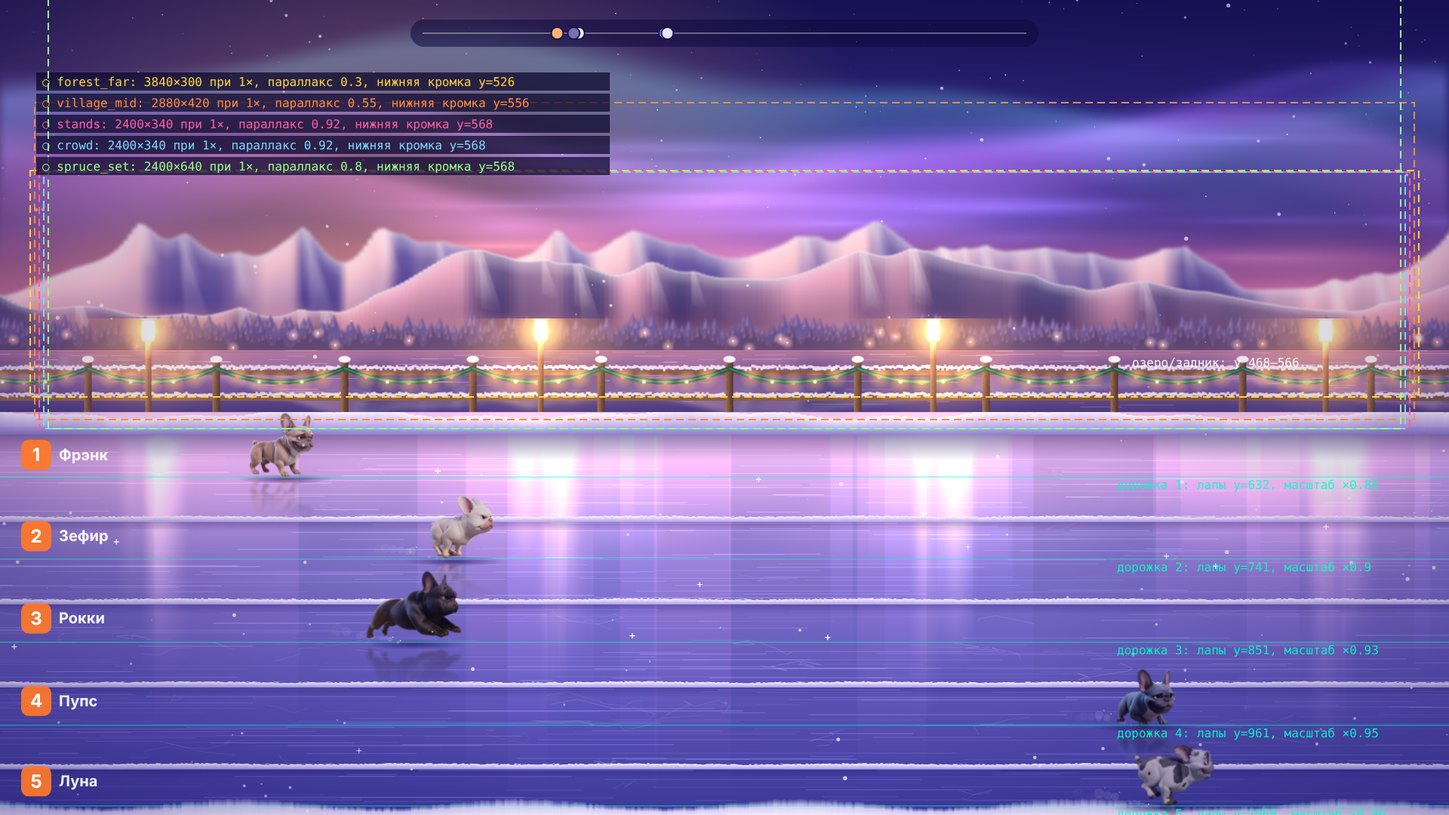
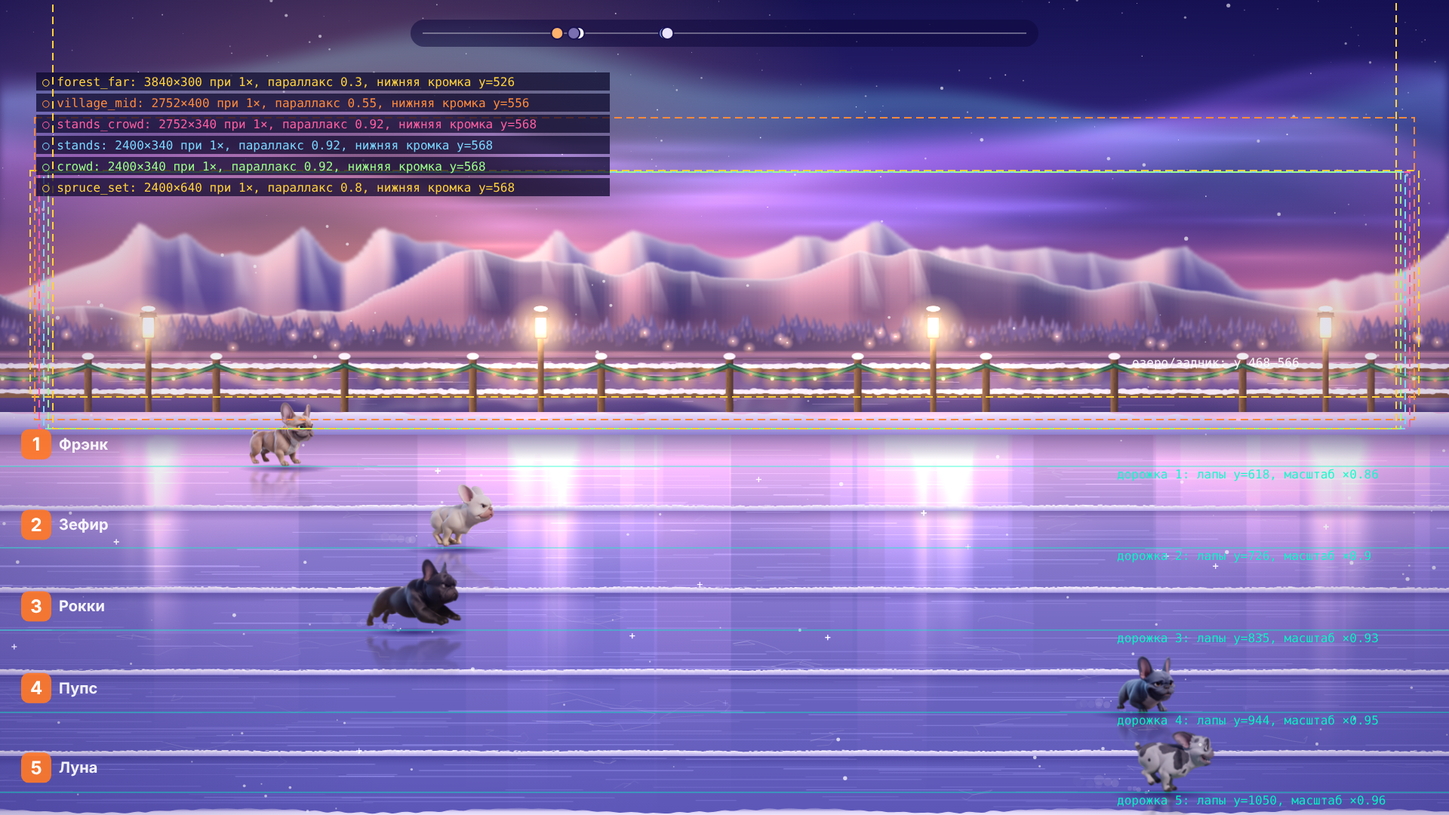
Арена (10.47): исправлены обрезанные фонари, швы фона и положение нижней собаки; слоты под P1 (модули, stands_crowd), проверка слоёв, план генераций и опорные кадры
Claude-Session: https://claude.ai/code/session_015A8DNsb5mr5DpbtnE63fGS

Changed region(s): [[0.0, 0.3667, 1.0, 1.0], [0.0, 0.1222, 0.4375, 0.2444], [0.9375, 0.1222, 0.9688, 0.1528]]

diff --git a/src/lib/bulldog/arena/art.ts b/src/lib/bulldog/arena/art.ts
@@ -8,6 +8,7 @@ export const PAL = {                         // «B+C»: спортивная я
   iceFar: '#b9a6e6', iceNear: '#4c4aa6', snowLit: '#f7ecff', snowShade: '#8d86cf', warm: '#ffc27a', warmDeep: '#ff8f4a',
 }
 export const HZ = 468                        // линия горизонта (низ гор, начало озера)
+export const FENCE_H = 340                  // высота холста ограждения: фонарь с колпаком и свечением целиком внутри (раньше 150 px резало колпак и свечение по прямой линии)
 export const BERM_Y = 566                    // дальний снежный борт: верхняя кромка трассы
 export const rng = (seed: number) => { let a = seed >>> 0; return () => { a = (a + 0x6d2b79f5) | 0; let t = Math.imul(a ^ (a >>> 15), 1 | a); t = (t + Math.imul(t ^ (t >>> 7), 61 | t)) ^ t; return ((t ^ (t >>> 14)) >>> 0) / 4294967296 } }
 export const cv = (w: number, h: number) => { const c = document.createElement('canvas'); c.width = Math.ceil(w); c.height = Math.ceil(h); return c }
@@ -82,7 +83,7 @@ export function buildLake(sky: HTMLCanvasElement, mtnFar: HTMLCanvasElement, mtn
   x.globalAlpha = 0.55; x.drawImage(t, 0, 0); x.globalAlpha = 1
   x.fillStyle = lin(x, 0, 0, 0, H, [[0, 'rgba(255,190,150,.0)'], [0.4, 'rgba(60,40,120,.0)'], [1, 'rgba(25,22,80,.55)']]); x.fillRect(0, 0, W, H)
   x.globalCompositeOperation = 'lighter'; for (let i = 0; i < W / 14; i++) { const py = r() * H * r(), px = r() * W, w = 20 + r() * 90 * (0.3 + py / H); x.fillStyle = `rgba(255,${200 + r() * 40 | 0},${200 + r() * 40 | 0},${0.05 + r() * 0.14})`; x.fillRect(px, py, w, 1) }
-  x.globalCompositeOperation = 'source-over'; return c
+  x.globalCompositeOperation = 'destination-in'; x.fillStyle = lin(x, 0, 0, 0, H, [[0, 'rgba(0,0,0,0)'], [0.16, 'rgba(0,0,0,1)'], [1, 'rgba(0,0,0,1)']]); x.fillRect(0, 0, W, H); x.globalCompositeOperation = 'source-over'; return c
 }
 
 // ── ледяная трасса (мировые координаты, параллакс 1): отражение огней, царапины, трещины, снежные гребни между дорожками, дальний и ближний борт
@@ -90,7 +91,7 @@ export interface TrackArt { canvas: HTMLCanvasElement; lanternsX: number[]; y0: 
 export function buildTrack(): TrackArt {
   const WW = ARENA.START_X + ARENA.TRACK_LEN + 1700, y0 = BERM_Y - 20, H = ARENA.H - y0, c = cv(WW, H), x = c.getContext('2d')!, r = rng(77), Y = (y: number) => y - y0
   // базовый лёд: ближе к горизонту отражает закат, ближе к камере — глубокий индиго
-  x.fillStyle = lin(x, 0, Y(BERM_Y), 0, H, [[0, '#cfa9dd'], [0.08, '#a98ad6'], [0.3, '#7f74c7'], [0.7, '#5a56b3'], [1, '#413f95']]); x.fillRect(0, 0, WW, H)
+  x.fillStyle = lin(x, 0, Y(BERM_Y), 0, H, [[0, '#cfa9dd'], [0.08, '#a98ad6'], [0.3, '#8478cb'], [0.7, '#6862bd'], [1, '#5d58b6']]); x.fillRect(0, 0, WW, H)
   // фонари (мировые X) — теплый свет ложится на лёд длинными вертикальными бликами
   const lanternsX: number[] = []; for (let wx = 260; wx < WW; wx += 520) lanternsX.push(wx)
   x.globalCompositeOperation = 'lighter'
@@ -113,19 +114,26 @@ export function buildTrack(): TrackArt {
     x.fillStyle = 'rgba(255,255,255,.55)'; for (let i = 0; i < WW / 9; i++) x.fillRect(r() * WW, Y(by) - 3.5 - r() * 1.5, 2 + r() * 3, 1)
   }
   // дальний борт (снежный вал) с мягкой верхней кромкой и тенью на льду; ближний край — низкий вал без громоздкости
-  const berm = (yy: number, hh: number, top: boolean) => { for (let px = 0; px < WW; px += 4) { const h = hh + Math.sin(px * 0.013) * hh * 0.25 + Math.sin(px * 0.047 + 2) * hh * 0.12 + r() * 2; const a = x.createLinearGradient(0, Y(yy) - h, 0, Y(yy) + 6); a.addColorStop(0, '#fdf4ff'); a.addColorStop(0.45, '#cdbcf0'); a.addColorStop(1, '#8a7fd0'); x.fillStyle = a; x.fillRect(px, Y(yy) - h, 4.2, h + 6) } x.fillStyle = lin(x, 0, Y(yy) + 6, 0, Y(yy) + 40, [[0, top ? 'rgba(30,24,100,.5)' : 'rgba(30,24,100,.0)'], [1, 'rgba(30,24,100,0)']]); x.fillRect(0, Y(yy) + 6, WW, 34) }
+  const berm = (yy: number, hh: number, top: boolean) => {
+    const pts: number[] = []; for (let px = 0; px <= WW; px += 8) pts.push(Y(yy) - (hh + Math.sin(px * 0.013) * hh * 0.25 + Math.sin(px * 0.047 + 2) * hh * 0.12 + Math.sin(px * 0.19) * 1.2 + r() * 1.6))
+    x.beginPath(); x.moveTo(0, Y(yy) + 6); x.lineTo(0, pts[0]); for (let i = 1; i < pts.length; i++) { const mx = (i * 8 - 4), my = (pts[i - 1] + pts[i]) / 2; x.quadraticCurveTo((i - 1) * 8, pts[i - 1], mx, my) } x.lineTo(WW, pts[pts.length - 1]); x.lineTo(WW, Y(yy) + 6); x.closePath()
+    const a = x.createLinearGradient(0, Y(yy) - hh - 8, 0, Y(yy) + 6); a.addColorStop(0, '#fdf4ff'); a.addColorStop(0.45, '#cdbcf0'); a.addColorStop(1, '#8a7fd0'); x.fillStyle = a; x.fill()
+    x.fillStyle = lin(x, 0, Y(yy) + 6, 0, Y(yy) + 40, [[0, top ? 'rgba(30,24,100,.5)' : 'rgba(30,24,100,.0)'], [1, 'rgba(30,24,100,0)']]); x.fillRect(0, Y(yy) + 6, WW, 34)
+  }
   berm(BERM_Y + 4, 20, true)
-  const fy = ARENA.H + 6; for (let px = 0; px < WW; px += 4) { const h = 20 + Math.sin(px * 0.017) * 6 + r() * 3, a = x.createLinearGradient(0, Y(fy) - h, 0, Y(fy)); a.addColorStop(0, 'rgba(245,235,255,.0)'); a.addColorStop(0.35, 'rgba(235,225,255,.9)'); a.addColorStop(1, '#ffffff'); x.fillStyle = a; x.fillRect(px, Y(fy) - h, 4.2, h + 2) }
+  { const fy = ARENA.H + 6, pts: number[] = []; for (let px = 0; px <= WW; px += 8) pts.push(Y(fy) - (11 + Math.sin(px * 0.017) * 3 + Math.sin(px * 0.21) * 1 + r() * 1.5))
+    x.beginPath(); x.moveTo(0, Y(fy) + 2); x.lineTo(0, pts[0]); for (let i = 1; i < pts.length; i++) x.quadraticCurveTo((i - 1) * 8, pts[i - 1], i * 8 - 4, (pts[i - 1] + pts[i]) / 2); x.lineTo(WW, pts[pts.length - 1]); x.lineTo(WW, Y(fy) + 2); x.closePath()
+    const a = x.createLinearGradient(0, Y(fy) - 16, 0, Y(fy)); a.addColorStop(0, 'rgba(245,235,255,0)'); a.addColorStop(0.35, 'rgba(235,225,255,.9)'); a.addColorStop(1, '#ffffff'); x.fillStyle = a; x.fill() }
   return { canvas: c, lanternsX, y0 }
 }
 
 // ── ограждение дальнего борта: деревянные столбы, перила, гирлянда с лампочками, фонари (вторичный декор; без зрителей и построек)
 export function buildFence(lanternsX: number[]): HTMLCanvasElement {
-  const WW = ARENA.START_X + ARENA.TRACK_LEN + 1700, H = 150, c = cv(WW, H), x = c.getContext('2d')!, r = rng(91), base = H - 4
+  const WW = ARENA.START_X + ARENA.TRACK_LEN + 1700, H = FENCE_H, c = cv(WW, H), x = c.getContext('2d')!, r = rng(91), base = H - 4
   const wood = (px: number, py: number, w: number, h: number) => { const g = x.createLinearGradient(px, 0, px + w, 0); g.addColorStop(0, '#9a6a45'); g.addColorStop(0.5, '#6b4430'); g.addColorStop(1, '#3d2622'); x.fillStyle = g; x.fillRect(px, py, w, h); x.fillStyle = 'rgba(0,0,0,.18)'; for (let k = 0; k < h / 7; k++) x.fillRect(px + r() * w, py + k * 7, 1, 3 + r() * 5) }
   const posts: number[] = []; for (let px = 40; px < WW; px += 170) posts.push(px)
   x.fillStyle = 'rgba(30,20,90,.32)'; x.fillRect(0, base - 3, WW, 6)
-  for (const ry of [base - 44, base - 78]) { wood(0, ry, WW, 7); x.fillStyle = 'rgba(255,240,255,.85)'; for (let px = 0; px < WW; px += 3) x.fillRect(px, ry - 2 - r() * 3 - (ry === base - 78 ? 2 : 0), 3.2, 3 + r() * 3) }
+  for (const ry of [base - 44, base - 78]) { wood(0, ry, WW, 7); x.fillStyle = 'rgba(255,242,255,.92)'; for (let px = 0; px < WW; px += 5) { x.beginPath(); x.ellipse(px + r() * 3, ry - 0.5 - r() * 1.5, 4.5 + r() * 3, 2.2 + r() * 1.8, 0, 0, 7); x.fill() } }
   for (const px of posts) { wood(px - 5, base - 92, 10, 90); x.fillStyle = '#fff4ff'; x.beginPath(); x.ellipse(px, base - 92, 8, 4.5, 0, 0, 7); x.fill() }
   // гирлянда: хвойная лента с красной ягодой и тёплыми лампочками между столбами
   for (let i = 0; i < posts.length - 1; i++) { const a = posts[i], b = posts[i + 1], my = base - 74 + 16; x.strokeStyle = '#1d4a3d'; x.lineWidth = 6; x.lineCap = 'round'; x.beginPath(); x.moveTo(a, base - 80); x.quadraticCurveTo((a + b) / 2, my + 14, b, base - 80); x.stroke(); x.strokeStyle = '#2f7a56'; x.lineWidth = 2.4; x.stroke()
@@ -134,6 +142,7 @@ export function buildFence(lanternsX: number[]): HTMLCanvasElement {
   x.globalCompositeOperation = 'source-over'
   // фонари: высокий столб, рамка, тёплое стекло, свечение
   for (const lx of lanternsX) { const px = lx; wood(px - 4, base - 128, 8, 126); x.fillStyle = '#2a1e2e'; x.fillRect(px - 11, base - 150, 22, 6); const g = x.createLinearGradient(0, base - 144, 0, base - 116); g.addColorStop(0, '#fff0c0'); g.addColorStop(1, '#ff9a4a'); x.fillStyle = g; x.beginPath(); x.roundRect(px - 8, base - 144, 16, 28, 3); x.fill(); x.strokeStyle = '#2a1e2e'; x.lineWidth = 2; x.stroke(); x.fillStyle = '#2a1e2e'; x.beginPath(); x.moveTo(px - 12, base - 144); x.lineTo(px, base - 154); x.lineTo(px + 12, base - 144); x.closePath(); x.fill(); x.fillStyle = '#fff'; x.beginPath(); x.ellipse(px, base - 155, 9, 3.5, 0, 0, 7); x.fill() }
-  x.globalCompositeOperation = 'lighter'; for (const lx of lanternsX) { glow(x, lx, base - 130, 120, 'rgb(255,170,100)', 0.5); glow(x, lx, base - 130, 38, 'rgb(255,225,170)', 0.9) }
-  x.globalCompositeOperation = 'source-over'; return c
+  x.globalCompositeOperation = 'lighter'; for (const lx of lanternsX) { glow(x, lx, base - 130, 46, 'rgb(255,225,170)', 0.85) }                      // только тугое ядро; широкий ореол рисуется на лету (drawLanternBloom) без обрезки
+  x.globalCompositeOperation = 'source-over'
+  const o = cv(WW, H), ox = o.getContext('2d')!; ox.filter = 'blur(0.55px)'; ox.drawImage(c, 0, 0); return o
 }

diff --git a/src/lib/bulldog/arena/slots.ts b/src/lib/bulldog/arena/slots.ts
@@ -12,19 +12,23 @@ export interface SlotSpec {
   bottomY: number
   /** Размер тайла в пикселях КАДРА 1920×1080 (1:1) и способ укладки. */
   tileW: number; tileH: number; mode: 'tile' | 'sequence'
+  /** Сколько модулей лежит в файле по горизонтали (файл делится поровну). Для 'tile' — 1. */
+  modules: number
   /** Что внутри и условия съёмки/отрисовки — попадает в ASSET_BRIEF. */
   note: string
 }
 export const SLOTS: SlotSpec[] = [
-  { id: 'forest_far', file: 'forest_far.webp', title: 'Дальний хвойный склон с огоньками посёлка', parallax: 0.30, bottomY: BERM_Y - 40, tileW: 3840, tileH: 300, mode: 'tile',
+  { id: 'forest_far', file: 'forest_far.webp', title: 'Дальний хвойный склон с огоньками посёлка', parallax: 0.30, bottomY: BERM_Y - 40, tileW: 3840, tileH: 300, mode: 'tile', modules: 1,
     note: 'бесшовно по горизонтали; плотные заснеженные ели + крыши и тёплые окна далёких шале в просветах; воздушная дымка (мягче и светлее переднего плана); фон прозрачный сверху (небо и горы за ним)' },
-  { id: 'village_mid', file: 'village_mid.webp', title: 'Зимняя деревня: шале, колокольня, дым из труб', parallax: 0.55, bottomY: BERM_Y - 10, tileW: 2880, tileH: 420, mode: 'sequence',
-    note: '4 модуля, стыкуются в любом порядке (одинаковый профиль снега и фонарь на стыке); шале с тёплыми окнами, балконы, гирлянды, колокольня, ели между домами; без зрителей' },
-  { id: 'stands', file: 'stands.webp', title: 'Трибуны/навесы (без зрителей)', parallax: 0.92, bottomY: BERM_Y + 2, tileW: 2400, tileH: 340, mode: 'sequence',
+  { id: 'village_mid', file: 'village_mid.webp', title: 'Зимняя деревня: шале, колокольня, дым из труб', parallax: 0.55, bottomY: BERM_Y - 10, tileW: 2752, tileH: 400, mode: 'sequence', modules: 3,
+    note: '3 модуля (вариант A) или 4 (вариант B); края каждого модуля свободны (120 px) — стык закрывают ели/фонари спрайтами; шале с тёплыми окнами, балконы, гирлянды, колокольня, ели между домами; без зрителей' },
+  { id: 'stands_crowd', file: 'stands_crowd.webp', title: 'Трибуны вместе с публикой (вариант A)', parallax: 0.92, bottomY: BERM_Y + 2, tileW: 2752, tileH: 340, mode: 'sequence', modules: 3,
+    note: 'вариант A: многоярусные трибуны с готовой плотной публикой одним слоем, как в концептах B-3/C-3; код оживляет её срезами рядов (±2 px) и вспышками; края модулей свободны' },
+  { id: 'stands', file: 'stands.webp', title: 'Трибуны/навесы (без зрителей)', parallax: 0.92, bottomY: BERM_Y + 2, tileW: 2400, tileH: 340, mode: 'sequence', modules: 3,
     note: '3 модуля стыкуются в любом порядке; многоуровневые деревянные трибуны B (тёмно-синие металлические элементы, световые панели), навесы с гирляндами C; ярусы пустые — зрители отдельным слоем' },
-  { id: 'crowd', file: 'crowd.webp', title: 'Зрители: три ряда отдельными слоями', parallax: 0.92, bottomY: BERM_Y + 2, tileW: 2400, tileH: 340, mode: 'sequence',
+  { id: 'crowd', file: 'crowd.webp', title: 'Зрители: три ряда отдельными слоями', parallax: 0.92, bottomY: BERM_Y + 2, tileW: 2400, tileH: 340, mode: 'sequence', modules: 3,
     note: 'те же 3 модуля по ширине, что и трибуны; КАЖДЫЙ из 3 рядов — отдельный PNG (rows 1–3), чтобы код качал ряды независимо; 2 позы на ряд (руки вниз / руки вверх)' },
-  { id: 'spruce_set', file: 'spruce_set.webp', title: 'Крупные ели (спрайты)', parallax: 0.80, bottomY: BERM_Y + 2, tileW: 2400, tileH: 640, mode: 'sequence',
+  { id: 'spruce_set', file: 'spruce_set.webp', title: 'Крупные ели (спрайты)', parallax: 0.80, bottomY: BERM_Y + 2, tileW: 2400, tileH: 640, mode: 'sequence', modules: 6,
     note: '6–8 отдельных елей разной высоты на прозрачном фоне; ставятся кодом за ограждением; никогда не перед дорожками' },
 ]
 export interface LoadedSlot { spec: SlotSpec; img: HTMLImageElement }
@@ -34,10 +38,16 @@ export async function loadSlots(base: string): Promise<{ loaded: LoadedSlot[]; m
   await Promise.all(SLOTS.map(spec => new Promise<void>(res => { const img = new Image(); img.onload = () => { loaded.push({ spec, img }); res() }; img.onerror = () => { missing.push(spec); res() }; img.src = `${base}${spec.file}` })))
   loaded.sort((a, b) => a.spec.parallax - b.spec.parallax); return { loaded, missing }
 }
-/** Положение тайла/модуля i слоя при камере camX: слева направо, покрывая кадр. Чистая функция — тестируется без холста. */
-export function slotPlacements(spec: SlotSpec, camX: number, viewW = ARENA.W): { x: number; index: number }[] {
-  const off = camX * spec.parallax, first = Math.floor(off / spec.tileW), out: { x: number; index: number }[] = []
-  for (let i = first; i * spec.tileW - off < viewW; i++) out.push({ x: i * spec.tileW - off, index: ((i % 4) + 4) % 4 })
+/** Какой модуль файла стоит в плитке i: детерминированно, без одного и того же модуля подряд (при ≥ 2 модулях). */
+export function moduleOf(i: number, modules: number): number {
+  if (modules <= 1) return 0
+  const n = ((i % 1000003) + 1000003) % 1000003
+  return modules === 2 ? n % 2 : (n + Math.floor(n / modules)) % modules
+}
+/** Положение плиток слоя при камере camX: слева направо, покрывая кадр. Чистая функция — тестируется без холста. */
+export function slotPlacements(spec: SlotSpec, camX: number, viewW = ARENA.W): { x: number; i: number; module: number }[] {
+  const off = camX * spec.parallax, first = Math.floor(off / spec.tileW), out: { x: number; i: number; module: number }[] = []
+  for (let i = first; i * spec.tileW - off < viewW; i++) out.push({ x: i * spec.tileW - off, i, module: moduleOf(i, spec.modules) })
   return out
 }
 export const GUIDE = { HZ, BERM_Y }

diff --git a/src/lib/bulldog/arena/arena.ts b/src/lib/bulldog/arena/arena.ts
@@ -1,7 +1,7 @@
 // Рендер арены: бесшовная трасса в мировых координатах, сопровождающая камера, слои параллакса, настоящие собаки Race V3, свет и частицы.
 // Дорожки, скорость и тайминги — из Race V3 без изменений; здесь только «картинка» (прогресс → мировые пиксели, см. camera.ts).
 import { ARENA, buildCameraTrack, worldX } from './camera'
-import { HZ, BERM_Y, STARS, buildSky, buildMountains, buildFarShore, buildLake, buildTrack, buildFence, rng, cv, type TrackArt } from './art'
+import { HZ, BERM_Y, FENCE_H, STARS, buildSky, buildMountains, buildFarShore, buildLake, buildTrack, buildFence, rng, cv, type TrackArt } from './art'
 import { SLOTS, loadSlots, slotPlacements, type LoadedSlot, type SlotSpec } from './slots'
 import { LAYOUT as L, DOG_IDS } from '../config'
 import { raceFor, stateAt, loadDogData, raceSheetUrls, selectSheetUrl, BitmapPool, type DogData } from '../engine'
@@ -56,7 +56,7 @@ export class ArenaRenderer {
     this.drawLakeGlints(T, X)
     // авторские слои деревни/леса/трибун — только если файлы есть
     for (const s of this.slots) if (s.spec.parallax < 0.85) this.drawSlot(s, X, T)
-    c.drawImage(A.fence, -X, BERM_Y - 146 + 2 + sw(0.9))
+    c.drawImage(A.fence, -X, BERM_Y + 2 - FENCE_H + sw(0.9))
     for (const s of this.slots) if (s.spec.parallax >= 0.85) this.drawSlot(s, X, T)
     c.drawImage(A.track.canvas, -X, A.track.y0)
     this.drawIceSparkle(T, X)
@@ -81,7 +81,8 @@ export class ArenaRenderer {
   private drawLakeGlints(T: number, X: number) { const c = this.ctx, r = rng(3); c.save(); c.globalCompositeOperation = 'lighter'; for (let i = 0; i < 70; i++) { const wx = r() * 3600, y = HZ + 6 + r() * (BERM_Y - HZ - 40), a = 0.25 * Math.abs(Math.sin(T * (0.8 + r()) + r() * 6)), x = ((wx - X * 0.2) % (ARENA.W + 200) + ARENA.W + 200) % (ARENA.W + 200) - 100; c.fillStyle = `rgba(255,220,230,${a})`; c.fillRect(x, y, 10 + r() * 24, 1) } c.restore() }
   private drawIceSparkle(T: number, X: number) { const c = this.ctx, r = rng(8); c.save(); c.globalCompositeOperation = 'lighter'; for (let i = 0; i < 90; i++) { const wx = r() * 3000, y = BERM_Y + 30 + r() * (ARENA.H - BERM_Y - 60), ph = r() * 9, a = Math.pow(Math.max(0, Math.sin(T * (1.2 + r() * 2) + ph)), 12), x = ((wx - X) % 3000 + 3000) % 3000 - 500; if (x < -20 || x > ARENA.W + 20) continue; c.fillStyle = `rgba(255,255,255,${a * 0.9})`; c.fillRect(x - 3, y, 7, 1); c.fillRect(x, y - 3, 1, 7) } c.restore() }
   private drawSlot(s: LoadedSlot, X: number, T: number) {
-    const c = this.ctx, sp = s.spec, pl = slotPlacements(sp, X); for (const p of pl) { const idx = sp.mode === 'sequence' ? p.index % Math.max(1, Math.round(s.img.width / sp.tileW)) : 0; c.drawImage(s.img, idx * sp.tileW * (s.img.width / (sp.tileW * Math.max(1, Math.round(s.img.width / sp.tileW)))), 0, sp.tileW * (s.img.width / (sp.tileW * Math.max(1, Math.round(s.img.width / sp.tileW)))), s.img.height, p.x, sp.bottomY - sp.tileH, sp.tileW, sp.tileH) }
+    const c = this.ctx, sp = s.spec, mw = s.img.width / sp.modules
+    for (const p of slotPlacements(sp, X)) c.drawImage(s.img, p.module * mw, 0, mw, s.img.height, p.x, sp.bottomY - sp.tileH, sp.tileW, sp.tileH)
     void T
   }
   private noseOf(id: string, d: DogData, v: { sheet: string | null; index: number | null }, bm: ImageBitmap) {
@@ -152,7 +153,7 @@ export class ArenaRenderer {
   }
   private drawLanternBloom(T: number, X: number) {
     const c = this.ctx; c.save(); c.globalCompositeOperation = 'lighter'
-    for (const lx of this.art.track.lanternsX) { const x = lx - X; if (x < -200 || x > ARENA.W + 200) continue; const f = 0.88 + 0.12 * Math.sin(T * 7 + lx * 0.13); const g = c.createRadialGradient(x, BERM_Y - 144 + 14, 0, x, BERM_Y - 130, 170); g.addColorStop(0, `rgba(255,190,120,${0.16 * f})`); g.addColorStop(1, 'rgba(255,170,100,0)'); c.fillStyle = g; c.fillRect(x - 170, BERM_Y - 300, 340, 340) }
+    for (const lx of this.art.track.lanternsX) { const x = lx - X; if (x < -200 || x > ARENA.W + 200) continue; const f = 0.88 + 0.12 * Math.sin(T * 7 + lx * 0.13); const cy = BERM_Y - 130, g = c.createRadialGradient(x, cy, 0, x, cy, 190); g.addColorStop(0, `rgba(255,190,120,${0.30 * f})`); g.addColorStop(0.35, `rgba(255,170,100,${0.12 * f})`); g.addColorStop(1, 'rgba(255,170,100,0)'); c.fillStyle = g; c.fillRect(x - 190, cy - 190, 380, 380) }
     c.restore()
   }
   private drawSnow(T: number, X: number) {
@@ -166,8 +167,8 @@ export class ArenaRenderer {
   }
   private drawGrade() {
     const c = this.ctx; c.save()
-    const v = c.createRadialGradient(ARENA.W / 2, ARENA.H * 0.55, ARENA.H * 0.45, ARENA.W / 2, ARENA.H * 0.55, ARENA.W * 0.72); v.addColorStop(0, 'rgba(20,10,70,0)'); v.addColorStop(1, 'rgba(20,10,70,.42)'); c.fillStyle = v; c.fillRect(0, 0, ARENA.W, ARENA.H)
-    c.globalCompositeOperation = 'soft-light'; c.fillStyle = lin(c, 0, 0, 0, ARENA.H, [[0, 'rgba(120,90,255,.18)'], [0.5, 'rgba(255,160,160,.10)'], [1, 'rgba(60,50,170,.22)']]); c.fillRect(0, 0, ARENA.W, ARENA.H)
+    const v = c.createRadialGradient(ARENA.W / 2, ARENA.H * 0.68, ARENA.H * 0.5, ARENA.W / 2, ARENA.H * 0.68, ARENA.W * 0.74); v.addColorStop(0, 'rgba(20,10,70,0)'); v.addColorStop(1, 'rgba(20,10,70,.34)'); c.fillStyle = v; c.fillRect(0, 0, ARENA.W, ARENA.H)
+    c.globalCompositeOperation = 'soft-light'; c.fillStyle = lin(c, 0, 0, 0, ARENA.H, [[0, 'rgba(120,90,255,.18)'], [0.5, 'rgba(255,160,160,.10)'], [1, 'rgba(120,110,230,.06)']]); c.fillRect(0, 0, ARENA.W, ARENA.H)
     c.restore()
   }
   private drawHud(T: number) {

diff --git a/src/lib/bulldog/arena/__tests__/arena.test.ts b/src/lib/bulldog/arena/__tests__/arena.test.ts
@@ -1,7 +1,7 @@
 // Арена: камера, раскладка дорожек и слоты авторской графики — без холста (чистая математика). Гонка — Race V3 того же движка (seed 328, D=42).
 import { describe, expect, it } from 'vitest'
 import { ARENA, buildCameraTrack, worldX } from '../camera'
-import { SLOTS, slotPlacements } from '../slots'
+import { SLOTS, slotPlacements, moduleOf } from '../slots'
 import { BERM_Y } from '../art'
 import { raceFor, stateAt } from '../../engine'
 
@@ -47,10 +47,14 @@ describe('дорожки', () => {
 
 describe('слоты авторской графики', () => {
   it('раскладка по параллаксу: при камере 0 слой начинается с 0; сдвиг = камера × параллакс; кадр закрыт целиком', () => {
-    const s = SLOTS[1]
+    const s = SLOTS.find(x => x.id === 'village_mid')!
     expect(slotPlacements(s, 0)[0].x).toBe(0)
     expect(slotPlacements(s, 1000)[0].x).toBeCloseTo(-1000 * s.parallax + Math.floor(1000 * s.parallax / s.tileW) * s.tileW, 6)
     for (const cx of [0, 777, 3210]) { const p = slotPlacements(s, cx); expect(p[0].x).toBeLessThanOrEqual(0); expect(p[p.length - 1].x + s.tileW).toBeGreaterThanOrEqual(ARENA.W) }
+  })
+  it('модули идут без одинакового подряд и используют все варианты', () => {
+    for (const m of [2, 3, 4, 6]) { const seq = Array.from({ length: 200 }, (_, i) => moduleOf(i, m)); for (let i = 1; i < seq.length; i++) expect(seq[i]).not.toBe(seq[i - 1]); expect(new Set(seq).size).toBe(m) }
+    expect(moduleOf(5, 1)).toBe(0)
   })
   it('нижние кромки слоёв не заходят на трассу, у всех есть описание для художника', () => {
     for (const s of SLOTS) { expect(s.bottomY).toBeLessThanOrEqual(BERM_Y + 2); expect(s.note.length).toBeGreaterThan(20); expect(s.file).toMatch(/\.webp$/) }

diff --git a/src/lib/bulldog/arena/camera.ts b/src/lib/bulldog/arena/camera.ts
@@ -10,7 +10,7 @@ export const ARENA = {
   TRACK_LEN: 6400,
   START_X: 620,                     // мировая координата старта (прогресс 0)
   /** Линии лап пяти дорожек (низ спрайта) и масштаб спрайта по дорожке: дальше — меньше, ближе — крупнее (лёгкая перспектива). Масштаб подобран ЗАМЕРОМ: самый высокий силуэт (особые позы) ≈ 108 строк из 116, он обязан помещаться в шаг дорожки, иначе соседи касаются, когда бегут рядом. */
-  LANE_Y: [632, 741, 851, 961, 1068],
+  LANE_Y: [618, 726, 835, 944, 1050],
   LANE_K: [0.86, 0.90, 0.93, 0.95, 0.96],
 }
 export interface CamPose { x: number; sway: number }

diff --git a/public/sw.js b/public/sw.js
@@ -35,7 +35,7 @@
 // src/version.ts — синхронно бампай и константу ниже (см. CLAUDE.md,
 // раздел 4). Разъедутся — старый кеш не инвалидируется, и на проде долго
 // живёт версия, которую уже никто не собирал.
-const VERSION = '10.46'
+const VERSION = '10.47'
 const CACHE = 'qp-' + VERSION
 // ─── Библиотека собак «Скачек бульдогов» (public/bulldog, ~48 МБ) — СВОЙ кеш, со своей версией ───
 // BULLDOG_V = первые 12 знаков sha256 файла public/bulldog/MANIFEST.json (тест swBulldog.test.ts сверяет — забыл бампнуть, красный прогон).

diff --git a/src/version.ts b/src/version.ts
@@ -1,3 +1,3 @@
 // Версия сборки: видна в углу экранов. Если на проде номер старый —
 // деплой прошёл не из того дерева, и обсуждать правки рано.
-export const VERSION = '10.46'
+export const VERSION = '10.47'

diff --git a/scripts/arena/check_layer.py b/scripts/arena/check_layer.py
@@ -1,0 +1,30 @@
+#!/usr/bin/env python3
+"""Проверка присланного слоя арены перед подключением: python3 scripts/arena/check_layer.py <файл> <id слоя> (id — из src/lib/bulldog/arena/slots.ts).
+Что проверяет: размер и пропорции, альфа-канал есть и не пустой, нижняя кромка садится на ровную линию (нет «хвостов» и подложки),
+остатки хромакей-пурпура (#FF00FF) на краях, шов между модулями (левый и правый край модуля похожи по прозрачности), крупные пустые полосы.
+Нужны Pillow и numpy."""
+import sys, numpy as np
+from PIL import Image
+SPEC = {  # id: (минимальная высота 1x, ширина модуля 1x, число модулей или None, bottom-line обязательна)
+    'forest_far': (300, 3840, 1, False), 'village_mid': (400, 2752, None, True), 'stands': (320, 2400, None, True),
+    'crowd': (230, 2400, None, True), 'spruce_set': (300, 0, None, False)}
+def main():
+    path, lid = sys.argv[1], sys.argv[2]; im = Image.open(path).convert('RGBA'); a = np.asarray(im).astype(int); H, W = a.shape[:2]; rep = []; ok = True
+    def chk(name, cond, info=''):
+        nonlocal ok; ok &= bool(cond); rep.append(f"{'✓' if cond else '✗'} {name} {info}")
+    mh, mw, n, bottom = SPEC[lid]
+    chk('размер', H >= mh * 2 * 0.9 or H >= mh, f'{W}×{H} (нужно высота ≥ {mh} при 1×, лучше {mh*2})')
+    if mw: n = n or max(1, round(W / (mw * (W / (mw * max(1, round(W / mw)))))))
+    chk('альфа-канал', a[..., 3].min() < 5 and a[..., 3].max() > 250, f'min={a[...,3].min()} max={a[...,3].max()}')
+    cover = (a[..., 3] > 20).mean(); chk('занятость кадра', 0.15 < cover < 0.97, f'{cover*100:.0f}% непрозрачных')
+    mag = ((a[..., 0] > 200) & (a[..., 2] > 200) & (a[..., 1] < 90) & (a[..., 3] > 20)).mean(); chk('нет остатков пурпурного ключа', mag < 0.0005, f'{mag*100:.3f}%')
+    if bottom:
+        row = a[-3:, :, 3].mean(axis=0); chk('нижняя кромка: объекты стоят на нижней линии (≥ 60% ширины непрозрачно в последних строках)', (row > 128).mean() > 0.6, f'{(row>128).mean()*100:.0f}%')
+        chk('под кромкой ничего лишнего: верхняя часть кадра не «залита» сплошной подложкой', (a[:8, :, 3] > 200).mean() < 0.5)
+    if lid in ('forest_far',):                                        # бесшовность: левый и правый край
+        d = np.abs(a[:, 0, :4] - a[:, -1, :4]).mean(); chk('бесшовный стык левый/правый край', d < 18, f'разница {d:.1f}')
+    if lid in ('village_mid', 'stands', 'crowd') and mw:
+        m = max(1, round(W / mw)); step = W // m
+        for i in range(m): sl = a[:, i * step:(i + 1) * step, 3]; edge = (sl[:, :60] > 128).mean() + (sl[:, -60:] > 128).mean(); chk(f'модуль {i+1}: края освобождены под стык (<35% занято на крайних 60 px)', edge < 0.7, f'{edge*50:.0f}%')
+    print('\n'.join(rep)); print('ИТОГО:', 'годится' if ok else 'есть замечания'); sys.exit(0 if ok else 1)
+main()

diff --git a/arena-brief/P1_GENERATION_PLAN.md b/arena-brief/P1_GENERATION_PLAN.md
@@ -1,0 +1,73 @@
+# P1 арены — план генераций (на согласование; ничего не запускалось)
+
+Статус: код слотов готов (`src/lib/bulldog/arena/slots.ts`), проверка присланных файлов готова (`scripts/arena/check_layer.py`). **Нужны только исходные изображения.** Платных генераций я не запускал; на аккаунте Kling доступно **1888 кредитов** (стоимость одной генерации изображения я не знаю — её видно только после первой пробной, поэтому ниже считаю в штуках, не в кредитах). Опорные кадры концептов: `arena-brief/references/` (B-3, C-3, C-5, B-2), по ним задаётся стиль и композиция.
+
+## 1. Два варианта объёма — нужно выбрать один
+
+### Вариант A (рекомендую для первой версии): «как в концепте» — меньше слоёв, быстрее результат
+Публика уже стоит на трибунах внутри одного изображения (так нарисованы концепты B-3/C-3), код оживляет её срезами и вспышками. Минус: толпа не отдельный анимируемый слой.
+
+| Слой | Что в кадре | Принятых изображений | Ожидаемо попыток* |
+|---|---|---|---|
+| `village_mid` | Зимняя деревня: шале 2–3 этажа, тёплые окна, балконы, гирлянды, снежные кровли, дым, колокольня. **Без людей.** | **3** модуля | 8–10 |
+| `stands_crowd` | Деревянные многоярусные трибуны и навесы **с плотной публикой** (3 яруса зрителей, разные куртки, шапки, шарфы, флажки), гирлянды, вымпелы | **3** модуля | 8–12 |
+| `spruce_set` | Лист из 4–5 крупных заснеженных елей на одном изображении (вырезаются спрайтами, закрывают стыки модулей) | **2** листа | 4–6 |
+| **Итого** |  | **8** | **≈ 20–28** |
+
+### Вариант B (полный): отдельные слои и анимируемая толпа
+| Слой | Принятых изображений | Ожидаемо попыток* |
+|---|---|---|
+| `village_mid` — 4 модуля | 4 | 10–12 |
+| `stands` — пустые трибуны, 3 модуля | 3 | 9–12 |
+| `crowd` — 3 ряда × 2 модуля, поза «спокойно» | 6 | 14–18 |
+| `crowd` — те же 6 в позе «руки вверх» (image-to-image от «спокойно», чтобы люди совпали) | 6 | 12–16 |
+| `spruce_set` — 2 листа | 2 | 4–6 |
+| `forest_far` — дальний склон, бесшовный | 2 | 4–6 |
+| **Итого** | **23** | **≈ 55–70** |
+
+*Попытки — оценка с запасом на несогласованность света/палитры и стыки; точное число зависит от доли принятых результатов. Реалистично, что в обоих вариантах 1/3 генераций пойдёт в зачёт.
+Рекомендация: **A**, затем (если результат понравится и захочется живой толпы) добавить B только для толпы.
+
+## 2. Общие условия для КАЖДОЙ генерации
+- **Формат:** 16:9, максимальное разрешение генератора (≈2752×1536). Из кадра вырезается горизонтальная полоса по нижней линии объектов — поэтому **объекты должны стоять на одной горизонтальной линии у нижнего края кадра**, ниже неё — ничего (ни земли, ни льда).
+- **Фон — сплошной #FF00FF (пурпур), без градиента, без облаков, без гор, без теней на фоне.** По нему делаем прозрачность. Если генератор не держит ровный фон — просить «isolated on solid magenta chroma-key background, no sky».
+- **Ракурс:** строго боковой, фасады смотрят в камеру, камера на уровне чуть выше земли, **горизонтали горизонтальны**, без сходящейся перспективы (ортографический вид).
+- **Свет:** закат слева-сзади (тёплый розово-янтарный), холодный фиолетово-синий заполняющий свет, **тёплые окна, гирлянды и фонари — главные акценты**; снег в тени сиреневый, на свету тёпло-белый.
+- **Стиль:** живописно-иллюстративный, как кадры B-3 и C-3: мягкие объёмные формы, читаемые силуэты, не гиперреализм, не плоский вектор; такого же «мягкого 3D-рендера» характера, как собаки.
+- **Края:** левые и правые **120 px (при ширине 2752) пустые** (только пурпур) — стыки модулей закрывают ели и фонари, подгонять края друг к другу не нужно.
+- **Запрещено:** собаки, лёд/дорожки, текст и надписи, водяные знаки, логотипы, крупные объекты, уходящие ниже нижней линии, одинаковые повторяющиеся шале в соседних модулях.
+
+## 3. Каркас промпта (одинаковый для всех, меняется только блок «ОБЪЕКТ»)
+```
+Painterly stylized winter evening illustration, soft volumetric forms, warm-cool dusk lighting:
+key light low sunset from the left-back (pink-amber), cool violet-indigo fill from the sky,
+glowing warm windows, string lights and lanterns as the main accents. Strictly side orthographic
+view, camera slightly above ground, all horizontal lines perfectly horizontal, no perspective
+convergence. Wide 16:9 frame. All objects stand on one straight horizontal baseline at the very
+bottom edge of the image; nothing below the baseline. Isolated on a flat solid #FF00FF magenta
+chroma-key background — no sky, no ground, no clouds, no gradient, no cast shadows on background.
+The left and right 120 px of the frame stay empty magenta. No text, no logos, no watermark,
+no people unless stated, no dogs, no ice, no foreground objects.
+ОБЪЕКТ: ...
+```
+**Негативные:** `sky, clouds, mountains, ground, ice, track, text, letters, logo, watermark, photo-realistic, flat vector, fisheye, perspective, dogs, blur, duplicate buildings`.
+
+## 4. Блок «ОБЪЕКТ» для каждого слоя
+- **village_mid (модуль 1/2/3):** `a continuous row of 4–5 timber alpine chalets of different heights and widths, 2–3 storeys, steep snow-laden roofs with soft thick snow caps, warm glowing windows, wooden balconies with garlands of tiny warm lights, smoking chimneys, a few snowy spruce trees between houses; module 1 includes a small bell tower; module 2 includes a market stall with a red-white striped awning; module 3 includes a large decorated Christmas tree between houses. No people.` (каждый модуль — свой набор зданий)
+- **stands_crowd (модуль 1/2/3):** `multi-level wooden spectator grandstand with canopy roof, dark-navy metal accents and warm light panels, garlands and pennant flags along the canopy edge, three tiers densely packed with a cheering crowd in winter coats, hats and scarves, some waving small flags, diverse people, painterly stylized faces; wooden parapet at the base with navy-and-copper banner panels.` Модули 1–3 различаются архитектурой (под навесом / открытые / с высокой центральной частью).
+- **spruce_set (лист 1/2):** `a set of 4 large snow-laden spruce trees of different heights (tall, medium, wide, slim), thick drooping snowy branches, a few warm string-light bulbs on lower branches; each tree fully separated with clear magenta space between them, all trunks on the same baseline.`
+- *(только B)* **stands (пустые):** `... three tiers of wooden benches completely empty, no people ...`; **crowd ряд 1/2/3:** `a single row of about 40 spectators standing shoulder to shoulder, waist-up, in winter clothes, calm, facing the camera/track, painterly; row 1 largest in the frame, row 3 smallest; on magenta`; **crowd «руки вверх»:** image-to-image от «спокойно» с подписью `same people, arms raised cheering, waving flags`.
+
+## 5. Обработка после генерации (на моей стороне)
+1. Вырезать полосу по нижней линии, убрать пурпур (хромакей + удаление пурпурной каймы), мягкий край 1 px.
+2. Привести к ширине модуля (2752 px при 1×; для 4K — апскейл 2×, это снижает резкость, поэтому для проектора 4K лучше сразу просить максимальное разрешение).
+3. Собрать модули в файл `village_mid.webp` / `stands_crowd.webp` (3 модуля по горизонтали), `spruce_set.webp` (лист) + карту прямоугольников.
+4. Прогнать `python3 scripts/arena/check_layer.py <файл> <id>`; положить в `public/arena/`; открыть `arena.html?slots`; снять кадры и MP4 22 с.
+
+## 6. Критерии приёмки (как в ТЗ, §3)
+Нет швов и «ореолов» по краю; нижняя кромка садится на борт без щели; публика читается как публика (лица/куртки различимы на 1080p), а не шум; тёплые акценты есть, но не засвечивают собак; **коридор читаемости 5 дорожек чист: ничто не заходит ниже y=568**; на 3840×2160 детали остаются резкими.
+
+## 7. Что нужно от вас, чтобы продолжить
+1. Выбрать вариант A или B.
+2. Подтвердить, **чем генерируем** (Kling image, другой инструмент, Blender) и дать согласие на расход кредитов (пробная генерация покажет цену одной).
+3. Прислать готовые изображения в папку `arena-brief/incoming/` (или любым способом) — дальше сборка и интеграция займут один заход.

diff --git a/arena-brief/ASSET_BRIEF.md b/arena-brief/ASSET_BRIEF.md
@@ -4,7 +4,7 @@
 
 ## 0. Общие условия для ВСЕХ слоёв
 - **Ракурс:** боковой, камера чуть выше земли (подъём 5–10°), **без сходящейся перспективы**: горизонтальные линии строго горизонтальны, фасады смотрят в камеру, как в кадрах B/C. Никаких поворотов к фронтальному виду.
-- **Опорные координаты кадра 1920×1080** (всё ниже — в них, 1:1): горизонт озера y=468, дальний снежный борт (верхняя кромка трассы) y=566, пять дорожек: лапы на y = 632 / 741 / 851 / 961 / 1068 (собаки в масштабе ×0.86–0.96 — подобран замером, чтобы самый высокий силуэт помещался в шаг дорожки). Слои деревни и трибун стоят **за бортом**, их нижняя кромка — на y≈566.
+- **Опорные координаты кадра 1920×1080** (всё ниже — в них, 1:1): горизонт озера y=468, дальний снежный борт (верхняя кромка трассы) y=566, пять дорожек: лапы на y = 618 / 726 / 835 / 944 / 1050 (собаки в масштабе ×0.86–0.96 — подобран замером, чтобы самый высокий силуэт помещался в шаг дорожки). Слои деревни и трибун стоят **за бортом**, их нижняя кромка — на y≈566.
 - **Размер: рисуем в 2×** (для проектора 3840×2160); код уменьшает до 1080p. Ниже в таблице указано сразу 2× и 1×.
 - **Свет (единый для всех слоёв):** ключевой — закат слева-сзади (тёплый розово-янтарный, ≈2800 K), заполняющий — холодный фиолетово-синий от неба (индиго), локальные — тёплые окна, гирлянды и фонари (янтарь/золото). Тени мягкие, снег в тени — сиреневый (#8d86cf…#c9b8f2), на свету — тёпло-белый (#f7ecff). Палитра: C (индиго, фиолет, розово-янтарный) + акценты B (тёмно-синий металл, оранжево-медные вымпелы).
 - **Стиль:** живописно-иллюстративный, как в утверждённых кадрах (не гиперреализм и не плоский вектор): мягкие объёмные формы, читаемые силуэты, умеренная детализация. Собаки — «мягкий 3D-рендер»; окружение должно стоять рядом с ними, а не выбиваться. Локальный контраст в зоне собак (y 560–1060) **не повышать** — внимание на дорожках.
@@ -17,7 +17,7 @@
 
 | № | Файл | Что | Размер 1× (в кадре) / **отдать 2×** | Альфа | Параллакс | Нижняя кромка | Кол-во |
 |---|---|---|---|---|---|---|---|
-| **P1** | `village_mid.webp` | Зимняя деревня: деревянные шале 2–3 этажа, балконы, тёплые окна, гирлянды, снежные крыши, дым из труб, колокольня, ели между домами. Без зрителей и людей | 2880×420 / **5760×840** × 4 модуля в одном файле по горизонтали (всего 11520×840) | да (небо прозрачное) | 0.55 | y=556 | 1 файл, 4 модуля |
+| **P1** | `village_mid.webp` | Зимняя деревня: деревянные шале 2–3 этажа, балконы, тёплые окна, гирлянды, снежные крыши, дым из труб, колокольня, ели между домами. Без зрителей и людей | 2752×400 (при 1×) × 3 модуля в одном файле по горизонтали (всего 8256×400); 4K-версия — по возможности 2× | да (небо прозрачное) | 0.55 | y=556 | 1 файл, 4 модуля |
 | **P1** | `stands.webp` | Многоярусные деревянные трибуны/навесы (B: тёмно-синий металл, световые панели; C: навесы с гирляндами, красно-белые тенты), **пустые ярусы**, ограждение ярусов, вымпелы | 2400×340 / **4800×680** × 3 модуля (14400×680) | да | 0.92 | y=568 | 1 файл, 3 модуля |
 | **P1** | `crowd_*.webp` | Зрители, **каждый ряд отдельным файлом**, чтобы код качал ряды независимо: `crowd_r1.webp` (ближний, крупный), `crowd_r2.webp`, `crowd_r3.webp` (дальний, мельче) — 3 модуля по ширине, как у трибун. Разнообразие: куртки, шапки, шарфы, флажки; «руки вниз» и «руки вверх» — **две позы на ряд** (`_a` / `_b`), код плавно смешивает | на ряд: 2400×240 / **4800×480** × 3 модуля | да | 0.92 | y=568 | 3 ряда × 2 позы = 6 файлов |
 | **P2** | `forest_far.webp` | Дальний хвойный склон: плотные заснеженные ели + крыши и тёплые окна далёких шале; светлее и мягче всего остального | 3840×300 / **7680×600**, **бесшовно** | да (небо прозрачное) | 0.30 | y=526 | 1 |
@@ -37,3 +37,6 @@
 
 ## 4. Если генерировать по частям
 Генерировать **модулями с общей рамкой света и палитры** (один seed/промпт-каркас на файл) и затем собирать в ленту: сначала village_mid (4 модуля), затем stands под них по высоте, затем ряды толпы строго по высотам ярусов (сетка ярусов фиксируется после stands). Толпу лучше собирать из набора персонажей 2–3 размеров, а не рисовать одной картинкой — тогда ряды и позы делаются быстро.
+
+
+> **Актуально:** точный план генераций, число изображений, каркас промптов и два варианта объёма (A — трибуны сразу с публикой, B — отдельные слои и анимируемая толпа) — в `P1_GENERATION_PLAN.md`. Для варианта A добавлен слот `stands_crowd.webp` (3 модуля 2752×340). Перед подключением файл проверяется `python3 scripts/arena/check_layer.py <файл> <id слоя>`.

diff --git a/CLAUDE.md b/CLAUDE.md
@@ -139,10 +139,10 @@ npx vite build
 ```
 
 Тесты проверяй не только по цвету, но и **по числу**: сейчас должно быть
-**889 пройденных тестов + 7 todo (896 всего) в 90 файлах** (итоговая
+**890 пройденных тестов + 7 todo (897 всего) в 90 файлах** (итоговая
 строка `npx vitest run`: «Test Files 87 passed | 3 skipped (90)» — три
 файла это `it.todo`-заглушки для гонок без render-стенда (§3bu), целиком
-«skipped», отсюда 70, а не 73, в счётчике «passed»). 880→889 при 10.46 — `arena/__tests__/arena.test.ts`: камера, дорожки, слоты (HANDOFF §3dw). 875→880 при 10.45 — состояние гонки привязано к раунду и игре, `raceDone` (HANDOFF §3dv, найдено сквозным тестом на настоящем backend). 874→875 при 10.44 — `server.test.mjs`: личность ставки (HANDOFF §3du). 853→874 при 10.43 — техническая стабилизация «Скачек» (серверная блокировка ставок, идемпотентное начисление, Service Worker/память — HANDOFF §3dt: `raceActions`/`grading`/`raceBetPlayer`/`swBulldog`, тесты D в `engine.test.ts`, +1 в `local-server`). 823→853 при 10.41 — «Скачки бульдогов» на Race V3: `lib/bulldog/__tests__/*` (фазы по часам, ставки/очки, golden-сверка с лабораторией, целостность каталога `public/bulldog`, Рокки `phase_v2`, правила выхода из IDLE, бабочка, sha вендорных модулей) + `raceActions.test.ts` (HANDOFF §3dr). 819→823 при 10.40 — ревью перед деплоем: `startGame` с `from`, `anagramAllAnswered` (HANDOFF §3dq). 814→819 при 10.31 — `serverClock.test.ts`: серверные часы (HANDOFF §3di). 810→814 при 10.30 — `anagram-teams.test.ts`: панель команд «Скрэмбла» (HANDOFF §3dh). 804→810 при 10.27 — `melody-skew.test.ts`: сдвиг часов пульт/проектор (HANDOFF §3de). 803→804 при 10.25 — повтор `revealAnswer(from)` не пишет (HANDOFF §3dc). 800→803 при 10.23 — правки Леса по живому просмотру (раскладка без текста/метки/ровный текст, HANDOFF §3db). 734→800 при 10.21 — тема «Волшебный лес» в игре (HANDOFF §3db: раскладка вопросов, разбор, спецраунды, общие экраны). 730→734 при 10.18 — `stage5/lobby/__tests__/lobby3.test.ts`: раскладка лобби Леса без пустых мест, составы рандомайзера (HANDOFF §3da). 726→730 при 9.90 — `src/ny/__tests__/density.test.ts`: плотность и узнавание ny-тем (HANDOFF §3cl). 723→726 при 9.89 —
+«skipped», отсюда 70, а не 73, в счётчике «passed»). 889→890 при 10.47 — `moduleOf` (слоты арены, HANDOFF §3dx). 880→889 при 10.46 — `arena/__tests__/arena.test.ts`: камера, дорожки, слоты (HANDOFF §3dw). 875→880 при 10.45 — состояние гонки привязано к раунду и игре, `raceDone` (HANDOFF §3dv, найдено сквозным тестом на настоящем backend). 874→875 при 10.44 — `server.test.mjs`: личность ставки (HANDOFF §3du). 853→874 при 10.43 — техническая стабилизация «Скачек» (серверная блокировка ставок, идемпотентное начисление, Service Worker/память — HANDOFF §3dt: `raceActions`/`grading`/`raceBetPlayer`/`swBulldog`, тесты D в `engine.test.ts`, +1 в `local-server`). 823→853 при 10.41 — «Скачки бульдогов» на Race V3: `lib/bulldog/__tests__/*` (фазы по часам, ставки/очки, golden-сверка с лабораторией, целостность каталога `public/bulldog`, Рокки `phase_v2`, правила выхода из IDLE, бабочка, sha вендорных модулей) + `raceActions.test.ts` (HANDOFF §3dr). 819→823 при 10.40 — ревью перед деплоем: `startGame` с `from`, `anagramAllAnswered` (HANDOFF §3dq). 814→819 при 10.31 — `serverClock.test.ts`: серверные часы (HANDOFF §3di). 810→814 при 10.30 — `anagram-teams.test.ts`: панель команд «Скрэмбла» (HANDOFF §3dh). 804→810 при 10.27 — `melody-skew.test.ts`: сдвиг часов пульт/проектор (HANDOFF §3de). 803→804 при 10.25 — повтор `revealAnswer(from)` не пишет (HANDOFF §3dc). 800→803 при 10.23 — правки Леса по живому просмотру (раскладка без текста/метки/ровный текст, HANDOFF §3db). 734→800 при 10.21 — тема «Волшебный лес» в игре (HANDOFF §3db: раскладка вопросов, разбор, спецраунды, общие экраны). 730→734 при 10.18 — `stage5/lobby/__tests__/lobby3.test.ts`: раскладка лобби Леса без пустых мест, составы рандомайзера (HANDOFF §3da). 726→730 при 9.90 — `src/ny/__tests__/density.test.ts`: плотность и узнавание ny-тем (HANDOFF §3cl). 723→726 при 9.89 —
 `lab.test.ts`: два мира, флаг навигации, нагрузка лобби (HANDOFF §3ck). 718→723 при 9.88 —
 `src/labs/newyear/__tests__/lab.test.ts` переписан под Фазу 2 (HANDOFF §3cj). 711→718 при 9.87 —
 `src/labs/newyear/__tests__/lab.test.ts` (New Year Mockup Lab, HANDOFF §3ci). 710→711 при 9.86 —

diff --git a/HANDOFF.md b/HANDOFF.md
@@ -9458,3 +9458,8 @@ Share на самой странице.
 ## §3dw. Зимняя арена: работающий модуль без авторских слоёв (10.46)
 Код — `src/lib/bulldog/arena/`: `camera.ts` (ЧИСТАЯ сопровождающая камера: пружина ω=1.7 по траектории Race V3, считается один раз с шагом 1/120 с — перемотка и запись видео детерминированы; масштаб «прогресс→пиксели» `TRACK_LEN=6400`, скорость и тайминги гонки НЕ менялись), `art.ts` (процедурно ТОЛЬКО небо/сияние/горы/дальний берег/озеро/лёд/борта/ограждение — решение ведущего: шале, ели, трибуны и зрители рисуются художником), `slots.ts` (слоты авторских слоёв: параллакс, высота, нижняя кромка; файлы из `public/arena/`, нет файла — слоя нет, заглушек из примитивов нет), `arena.ts` (рендер: настоящие собаки Race V3, отражение во льду, тень, холодный/тёплый свет по силуэту, пыль из-под лап, снег, виньетка). Стенд: `e2e/bulldog/arena.html` (vite dev), автономный пакет: `node scripts/bulldog/build-demo.mjs` → `arena.html` + `arena.js` рядом с демо (file://, без сети). Лист требований к графике и схема кадра: `arena-brief/` (ASSET_BRIEF.md, LAYOUT_GUIDE_1920x1080.png).
 **Ловушки:** (1) самый высокий силуэт собаки (особые позы) ≈ 108 строк атласа из 116 — масштаб на дорожке выбран ЗАМЕРОМ (`silhouetteTops`), иначе соседи касаются при беге рядом; прикидка «≈82 строки» была неверной. Минимальный зазор на сиде 328 за 22 с: 5.2 px. (2) Подмена «прогресс→пиксели» без согласования с шагом анимации даёт скольжение лап: фон едет ~99 px/с при «родном» шаге анимации ≈ 41 px/с (на льду допустимо; задано `TRACK_LEN`). (3) Сегмент — Race V3 seed 328, D=42, окно 8–30 с (3 смены лидера, 5 остановок, 3 бабочки, ролл); подобран перебором сидов, физика не тронута.
+
+## §3dx. Арена: исправления кадра и подготовка слотов под P1 (10.47)
+**Исправлено по живому кадру:** (1) фонари резались — холст ограждения был 150 px, колпак и тугой ореол уходили выше и обрезались по прямой линии (она же давала «шов» по всей ширине на y≈422); теперь `FENCE_H=340`, запечён только тугой блик, широкий ореол рисуется на лету без прямоугольных краёв; (2) жёсткий верхний край озера смягчён (`destination-in`), снежные валы и снег на перилах — гладкие контуры вместо 3–4 px столбиков (давали дребезг на стыках); (3) нижняя собака стояла лапами на кромке кадра и на самом тёмном льду — дорожки [618,726,835,944,1050] (были …1068), лёд у зрителя светлее, нижний вал ниже, виньетка не гасит низ. Зазор между силуэтами соседних дорожек на сиде 328 за 22 с: ≥ 4,2 px.
+**Слоты:** `SlotSpec.modules` (сколько модулей в файле), `moduleOf` (без одного модуля подряд), слот `stands_crowd` (вариант A — трибуны с публикой одним слоем). Механику проверили на заведомо тестовом изображении (удалено): слой подхватывается, встаёт за ограждением и перед горами, едет с параллаксом. Проверка присланных файлов: `scripts/arena/check_layer.py`. План генераций и опорные кадры — `arena-brief/` (`P1_GENERATION_PLAN.md`, `references/`). **Художественные слои P1 НЕ созданы** (решение ведущего: не имитировать примитивами) — ждём исходники.
+**Ловушка:** правка исходников во время записи MP4 на vite dev перезагружает страницу и обрывает запись (`Execution context was destroyed`) — править только между записями.
